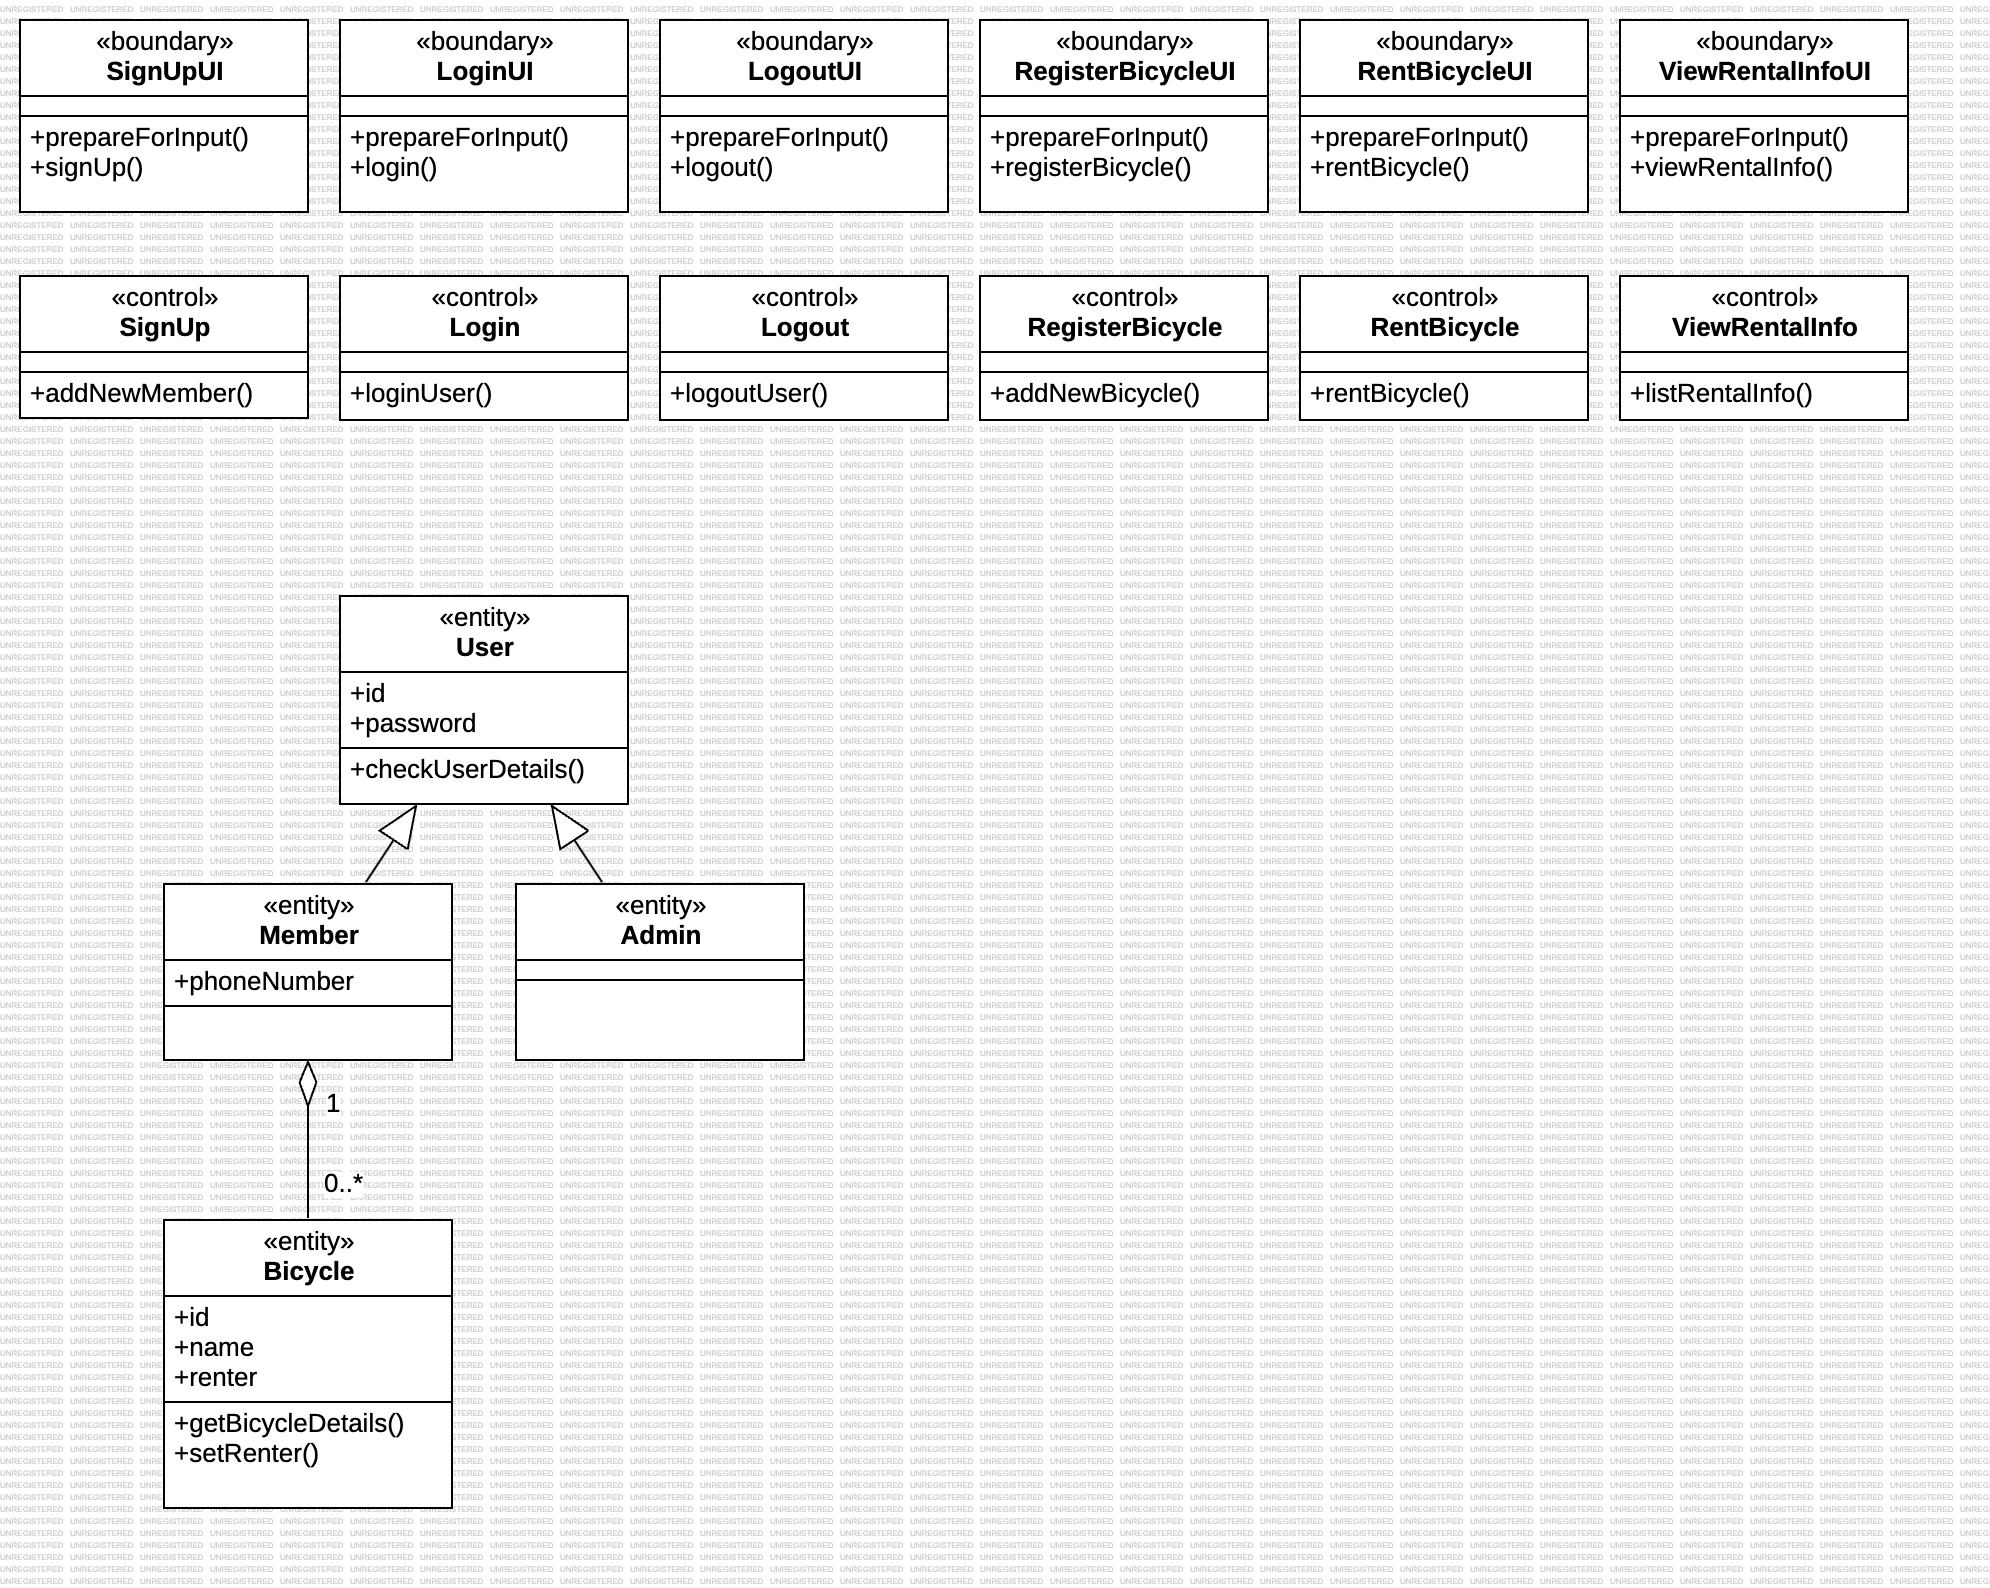
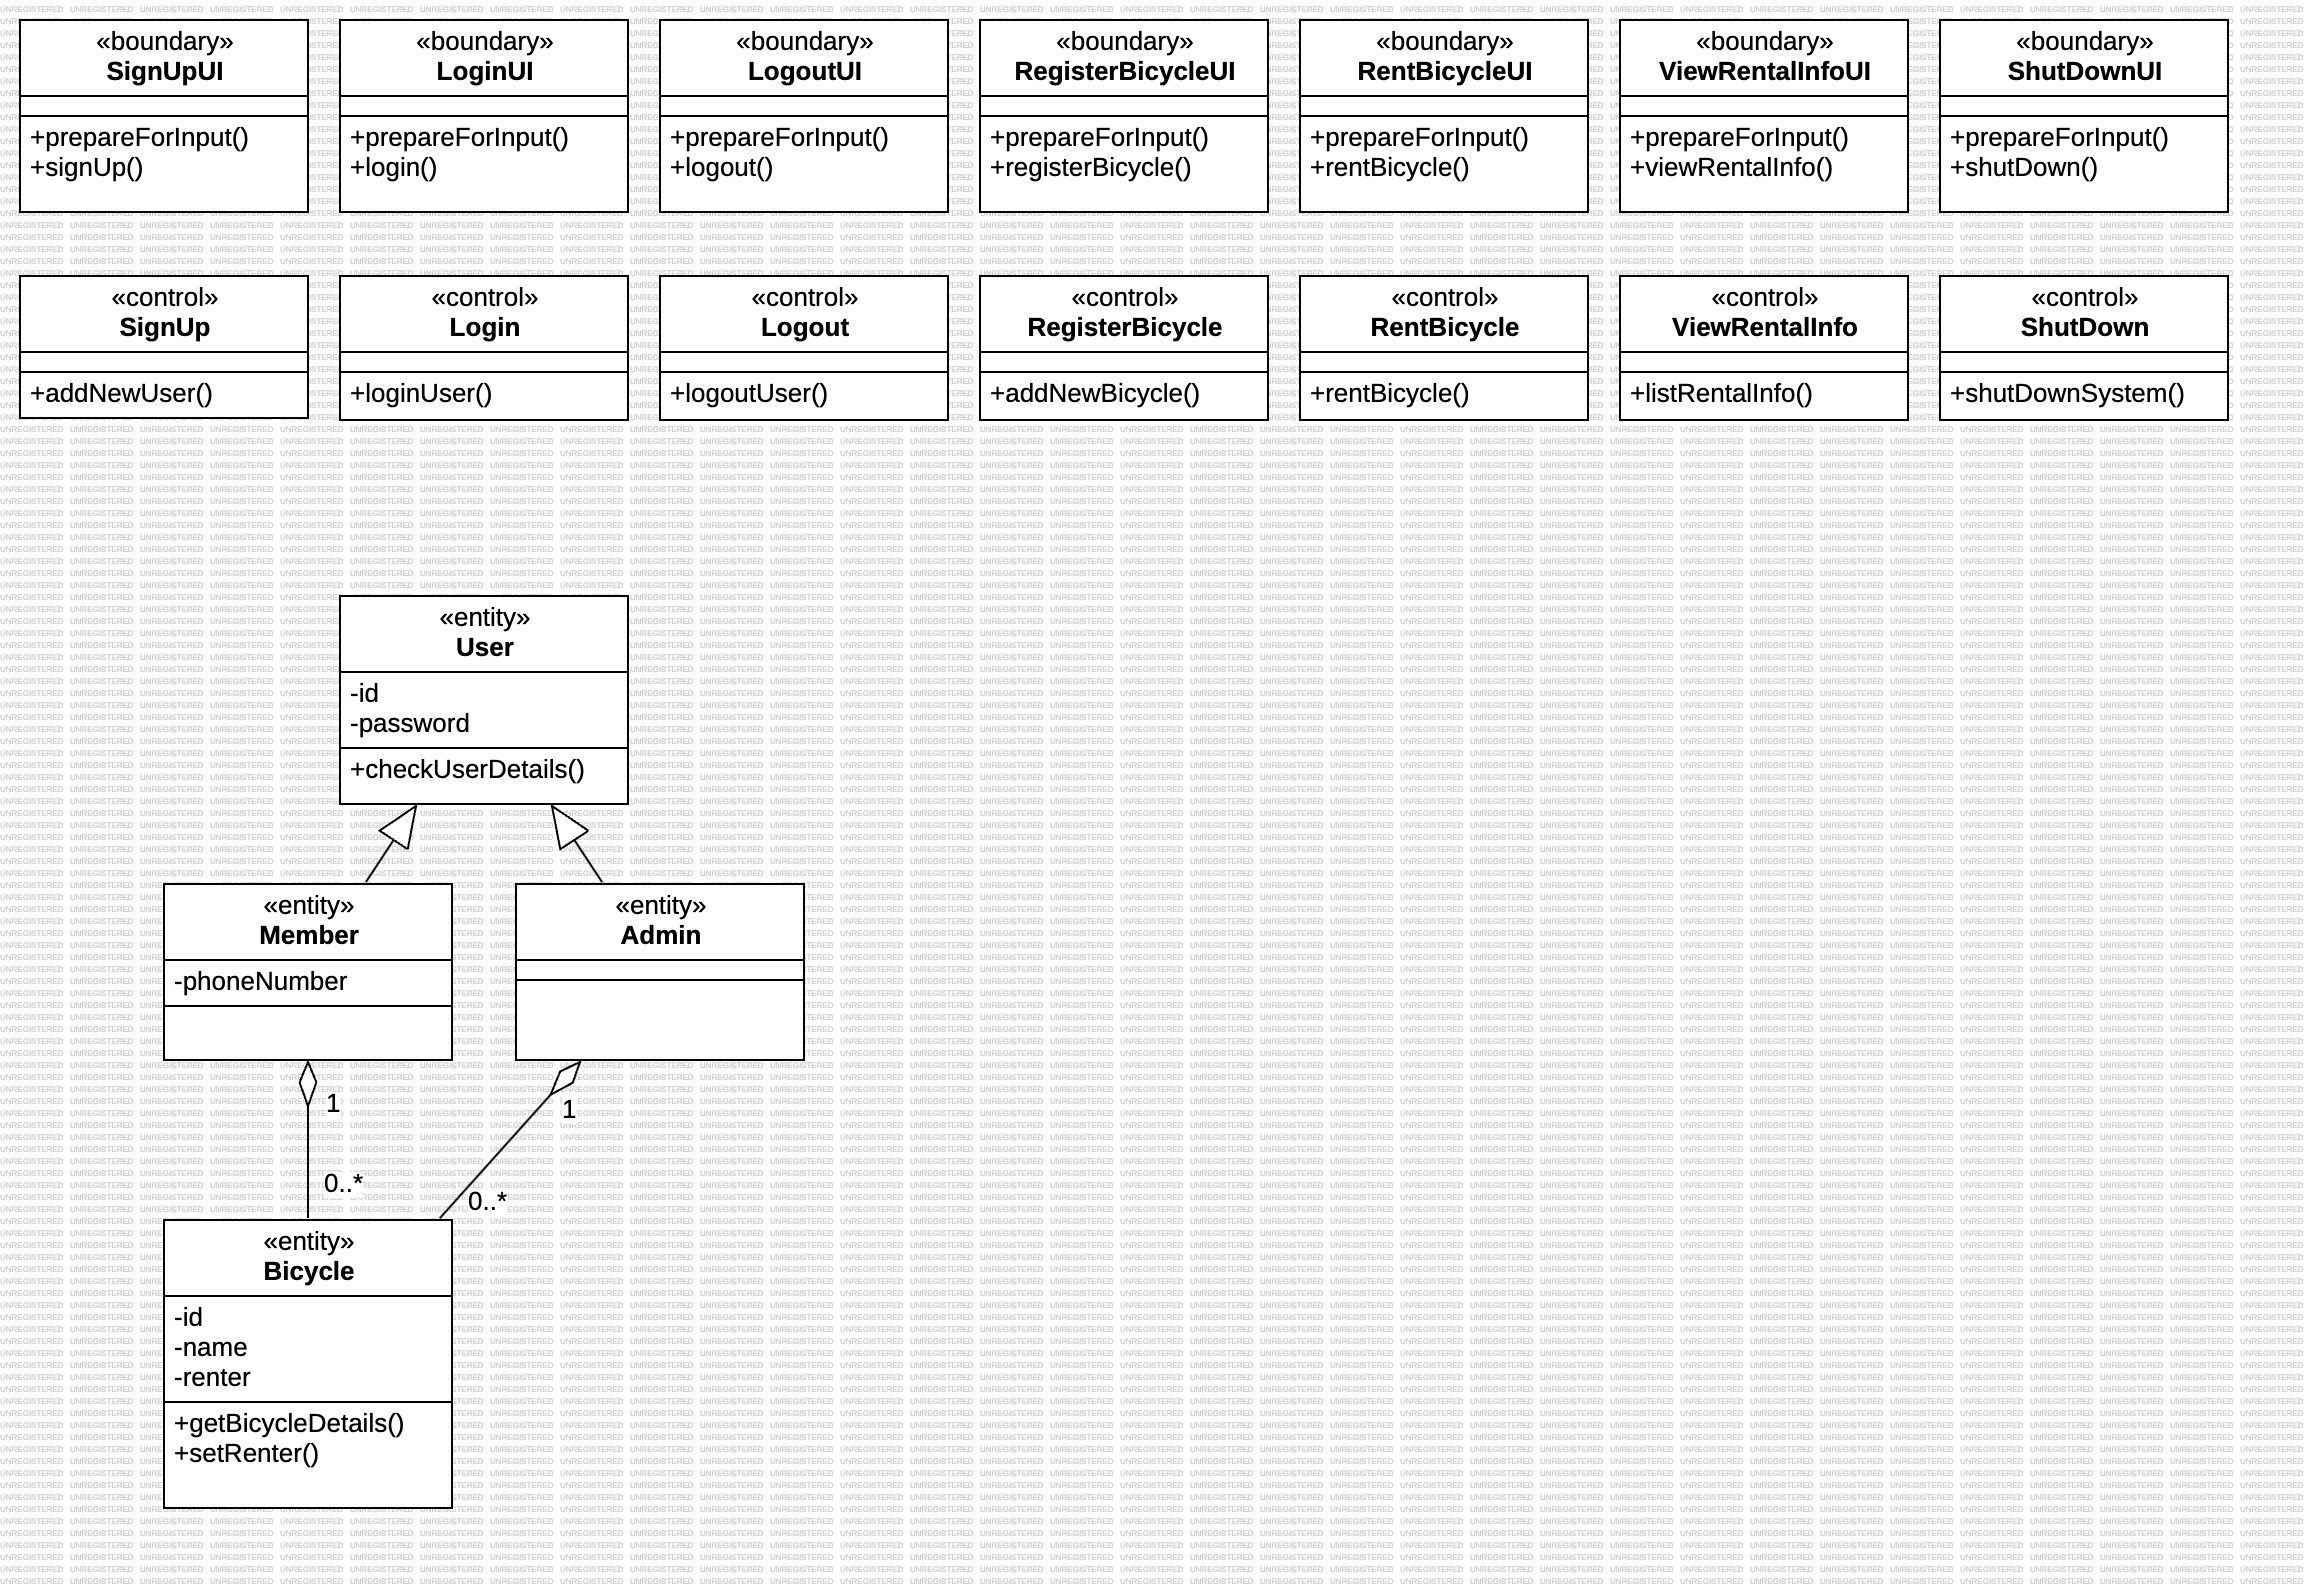
docs: 종료 use case 추가

Changed region(s): [[0.0, 0.0, 1.0, 1.0]]

diff --git a/use-case-descriptions.md b/use-case-descriptions.md
@@ -33,3 +33,9 @@
 | **Actor Action** | **System Response** |
 | --- | --- |
 | 1. 회원은 “5 1”를 입력한다. | 2. 시스템은 “5.1. 자전거 대여 리스트”과 바로 아래줄부터 “> [자전거 ID] [자전거 제품명]” 형식으로 회원이 현재 대여 중인 자전거의 정보를 각 줄에 출력한다. |
+
+### 종료
+
+| **Actor Action** | **System Response** |
+| --- | --- |
+| 1. 사용자는 “6 1”를 입력한다. | 2. 시스템은 “6.1. 종료”를 출력하고 종료된다. |
